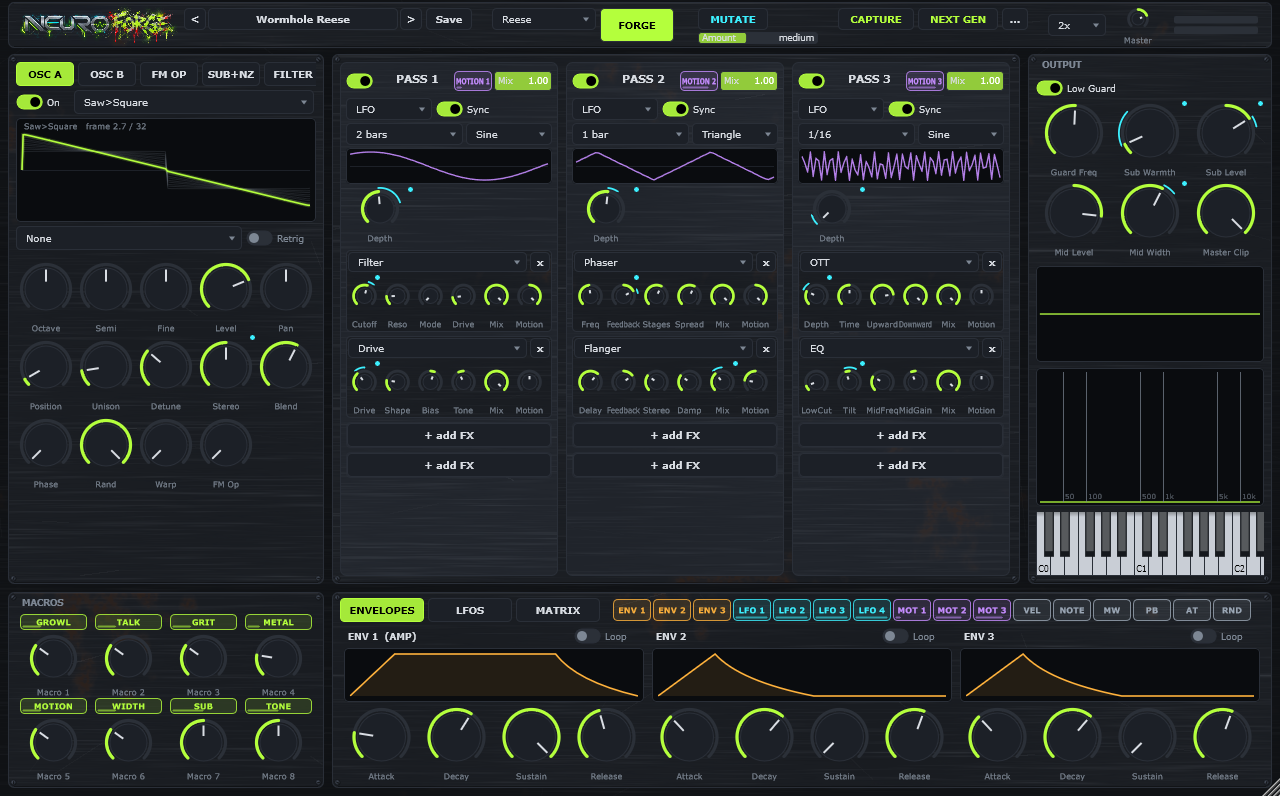
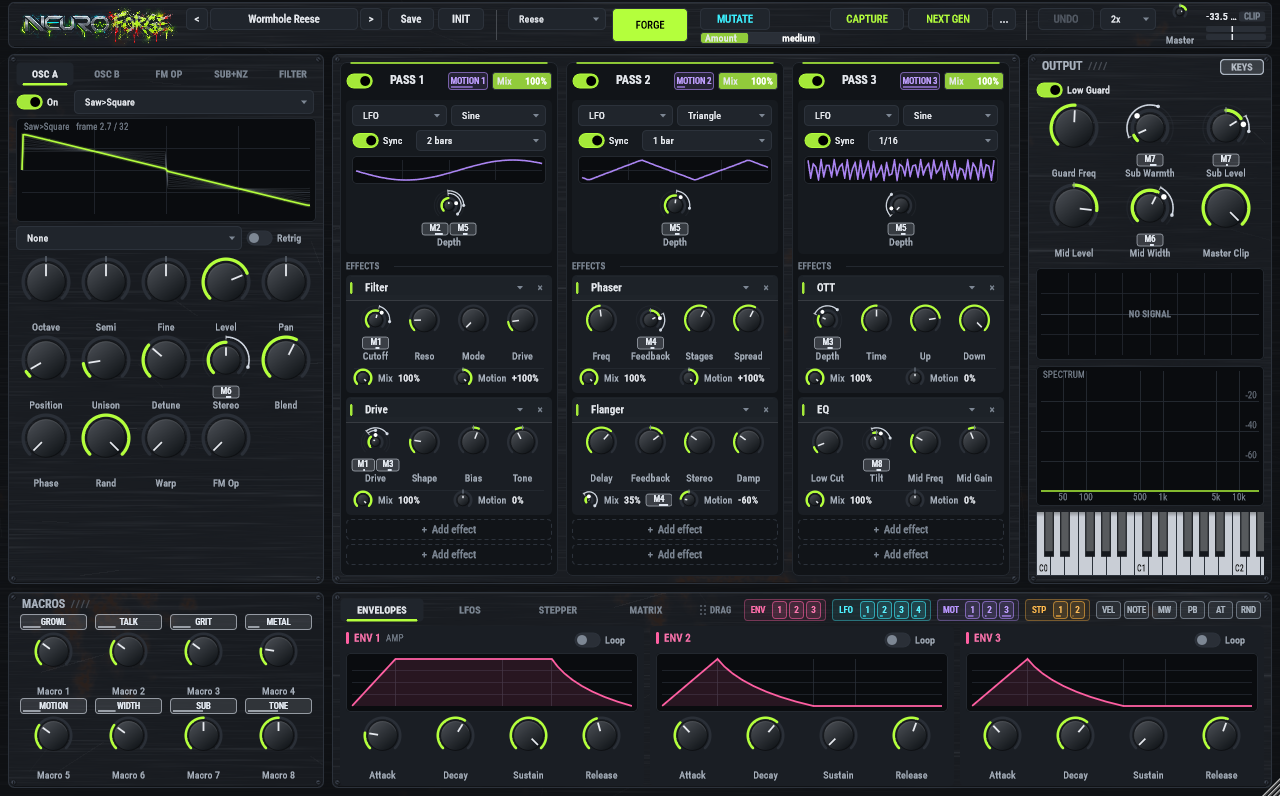
Docs: manual, README and screenshot for the new UI; ship Roboto Condensed license

diff --git a/tools/package.py b/tools/package.py
@@ -115,6 +115,7 @@ def main() -> None:
         info.external_attr = (stat.S_IFREG | 0o644) << 16
         z.writestr(info, install)
         z.write("LICENSE", "LICENSE.txt")
+        z.write("assets/fonts/LICENSE-Apache-2.0.txt", "third-party-licenses/RobotoCondensed-LICENSE-Apache-2.0.txt")
         z.write(f"{a.cje}/LICENSE.md", "third-party-licenses/clap-juce-extensions-LICENSE.txt")
         z.write(f"{a.cje}/clap-libs/clap/LICENSE", "third-party-licenses/clap-LICENSE.txt")
         z.write(f"{a.cje}/clap-libs/clap-helpers/LICENSE", "third-party-licenses/clap-helpers-LICENSE.txt")

diff --git a/docs/MANUAL.md b/docs/MANUAL.md
@@ -30,22 +30,24 @@ The window has six areas, laid out in the order the sound travels: source on the
 
 | Area | Where | What it is for |
 | --- | --- | --- |
-| Top bar | Top | Presets, Save, INIT (fresh empty patch), archetype + FORGE, MUTATE, UNDO, CAPTURE, NEXT GEN, capture settings (**...**), quality (1x/2x/4x), Master gain and the output meter |
+| Top bar | Top | Three groups. Preset: preset menu, Save, INIT (fresh empty patch). Generation: archetype + FORGE, MUTATE, CAPTURE, NEXT GEN and capture settings (**...**). Utility: UNDO, quality (1x/2x/4x), Master gain and the output meter |
 | Source | Left | Tabs OSC A, OSC B, FM OP, SUB+NZ and FILTER: everything that makes the raw sound, per voice |
-| The Forge | Middle | Three passes, each with its own Motion and up to four FX slots |
-| Output | Right | Low Guard, Sub Warmth, Sub Level, Mid Level, Mid Width, Master Clip, plus an oscilloscope and spectrum |
+| The Forge | Middle | Three passes, each with its own Motion and a chain of up to four effect cards |
+| Output | Right | Low Guard, Sub Warmth, Sub Level, Mid Level, Mid Width, Master Clip, plus an oscilloscope, a spectrum (with dB scale) and the KEYS button that shows or hides the on-screen keyboard |
 | Macros | Bottom left | Eight big knobs: GROWL, TALK, GRIT, METAL, MOTION, WIDTH, SUB, TONE |
-| Modulation | Bottom | Tabs ENVELOPES, LFOS, STEPPER and MATRIX, plus the row of draggable source chips (ENV, LFO, MOT, VEL, NOTE, MW, PB, AT, RND, STP) |
+| Modulation | Bottom | Tabs ENVELOPES, LFOS, STEPPER and MATRIX, plus the **DRAG** strip of source chips: ENV 1–3, LFO 1–4, MOT 1–3, STP 1–2, then VEL, NOTE, MW, PB, AT and RND |
 
 Knobs work the same everywhere:
 
 - Drag up or down to change a value. Hold **Ctrl** for fine adjustment, or use the mouse wheel.
 - **Double-click** resets to the default.
 - Hover or drag to see the exact value.
-- Each modulation route draws a thin **ring** around the knob in its source colour (pink = envelope, cyan = LFO, purple = Motion, green = macro, amber = stepper). A solid ring means positive depth, a dashed ring negative depth, and the dot at its end shows how far it pushes. A white dot on the green arc shows the live, modulated value.
-- **Right-click** for: *Enter value…* (type an exact value, units optional), remove modulation, reset, and *Assign to Macro*.
+- The green arc is the knob's own value. Each modulation route draws a thin **ring** outside it in its source colour (pink = envelope, cyan = LFO, purple = Motion, white = macro, amber = stepper). A solid ring means positive depth, a dashed ring negative depth. A small marker shows where the knob is set and a white dot shows the live, modulated value.
+- **Right-click** for: *Enter value…* (type an exact value, units optional), remove modulation, *Edit all modulation…*, reset, and *Assign to Macro*.
 - **Keyboard:** click a knob, then use the arrow keys (Shift = fine), Delete to reset, Enter to type a value.
-- **Modulation badges:** every modulation route on a knob shows as a small coloured badge under it (E1 = Env 1, L2 = LFO 2, MO1 = Motion 1, M3 = Macro 3, S1 = Step 1, …) and as a coloured arc around the knob showing how far it moves. **Drag a badge up or down** to set the amount, **double-click** it to remove the route, **right-click** it to invert. A white dot shows the live, modulated position.
+- **Modulation badges:** modulation routes show as small coloured badges under the knob (E1 = Env 1, L2 = LFO 2, MO1 = Motion 1, M3 = Macro 3, S1 = Step 1, …). **Drag a badge up or down** to set the amount, **double-click** it to remove the route, **right-click** it to invert, set +50% or remove it.
+- **More routes than badges:** when a knob has more routes than fit, the last badge reads **+n**. Click it (or right-click the knob → *Edit all modulation…*) to open a popover listing every route on that knob, each with a depth bar (drag left/right, double-click for 0), **±** to invert and **×** to remove.
+- **Finding routes:** hover a source chip and every knob it modulates lights up. While you drag a chip, the knobs you can drop it on show a dashed outline, and a knob flashes when a route is made.
 
 You can resize the window from the bottom-right corner; the whole interface scales.
 
@@ -73,7 +75,7 @@ FORGE builds a complete patch for the chosen archetype. That covers the source, 
 
 Mutate never touches the master section, Low Guard, the sub, oscillator levels, the amp envelope, macros or modulation routes. It re-matches loudness afterwards.
 
-**UNDO** (next to MUTATE) steps back through your last whole-patch changes: FORGE, MUTATE, NEXT GEN, loading a preset and Init. It remembers up to 32 steps. Knob tweaks are not part of this history; use your DAW's undo for those.
+**UNDO** (in the utility group of the top bar) steps back through your last whole-patch changes: FORGE, MUTATE, NEXT GEN, loading a preset and Init. It remembers up to 32 steps. Knob tweaks are not part of this history; use your DAW's undo for those.
 
 ## The eight macros
 
@@ -150,7 +152,7 @@ The Forge is where a neuro bass gets its character. It is three passes in series
 
 ### Passes
 
-- The toggle switches a pass on or off. **Mix** blends the pass with its input, so a pass can run as parallel processing.
+- The toggle in the pass header switches a pass on or off; an active pass has a lit top edge and a bypassed pass is dimmed. **Mix** blends the pass with its input, so a pass can run as parallel processing.
 - A typical split:
   - **Pass 1** shapes and talks (filter or formant, then drive).
   - **Pass 2** adds character (comb, phaser, fold, crush).
@@ -168,7 +170,7 @@ Each pass has one Motion modulator that moves the **first knob (P1)** of every s
 
 ### FX slots
 
-Click **+ add FX** to pick an effect; **x** removes it. Every slot has its four parameters, **Mix**, and **Motion**. Motion runs from −100% to +100% and sets how strongly, and in which direction, the pass's Motion moves P1.
+Each pass shows its effects as a chain of cards under **EFFECTS**, in processing order (scroll the chain if it doesn't fit). Click an empty **+ Add effect** slot to pick an effect, click a card's title to swap it for another, and **×** removes it. Every card has its four parameters, plus **Mix** and **Motion** in its footer. Motion runs from −100% to +100% and sets how strongly, and in which direction, the pass's Motion moves P1.
 
 | FX | P1 (Motion target) | P2 | P3 | P4 | Good for |
 | --- | --- | --- | --- | --- | --- |
@@ -183,8 +185,8 @@ Click **+ add FX** to pick an effect; **x** removes it. Every slot has its four 
 | FreqShift | Shift (±1000 Hz) | Feedback | Stereo | – | Inharmonic sheen; small shifts give slow beating |
 | RingMod | Freq | KeyTrack | Shape (sine to square) | – | Bell-like metal |
 | Disperse | Freq | Amount (up to 64 allpass stages) | Pinch | Spread | Laser "zap" smear (Disperser style) |
-| OTT | Depth | Time | Upward | Downward | Three-band upward and downward compression: brings up grit and detail |
-| EQ | Low cut | Tilt (±12 dB) | Mid freq | Mid gain | Clean-up and tone |
+| OTT | Depth | Time | Up (upward) | Down (downward) | Three-band upward and downward compression: brings up grit and detail |
+| EQ | Low Cut | Tilt (±12 dB) | Mid Freq | Mid Gain | Clean-up and tone |
 | Width | Width (0–200%) | Haas (0–20 ms) | Mono below | – | Stereo shaping |
 
 **Order matters.**
@@ -198,11 +200,11 @@ Click **+ add FX** to pick an effect; **x** removes it. Every slot has its four 
 Anything with a knob can move. The quickest way is to **drag a source chip onto a knob**. This creates a route at 50% in the first free matrix row.
 
 - **Source chips** sit in three places:
-  - the row above the modulation tabs (ENV 1–3, LFO 1–4, MOT 1–3, VEL, NOTE, MW, PB, AT, RND)
+  - the **DRAG** strip next to the modulation tabs (ENV 1–3, LFO 1–4, MOT 1–3, STP 1–2, VEL, NOTE, MW, PB, AT, RND)
   - above each macro knob
   - as the MOTION chip in each pass header
-- **Change the amount**: Alt-drag the knob, or edit the row in the MATRIX tab.
-- **Remove**: right-click the knob and choose *Remove modulation from …*, or clear the row in MATRIX.
+- **Change the amount**: drag the route's badge under the knob, Alt-drag the knob, click **+n** for the full list, or edit the row in the MATRIX tab.
+- **Remove**: double-click the badge, right-click the knob and choose *Remove modulation from …*, or clear the row in MATRIX.
 
 | Source | Range | Notes |
 | --- | --- | --- |
@@ -222,12 +224,13 @@ The **STEPPER** tab holds two curve sequencers, STEP 1 and STEP 2, in the style 
 
 - **Pick a curve:** drag one of the 20 shapes from the palette (ramps, exp/log, hump, pulse, spike, bounce, trill, stairs, wobble, …) onto a step. Or select a step, then click a curve. The mouse wheel on a step cycles its curve; right-click picks one from a list.
 - **Set intensity:** drag up or down inside a step. Drag sideways to paint several steps at once. Double-click a step for full intensity.
+- The **Timing** group holds Sync, Retrig and the step length or Rate; the **Pattern** group holds Steps and Smooth. Switch between the two sequencers with the **STEP 1 / STEP 2** pills.
 - **Steps** sets the pattern length, the **step length** (Sync on, e.g. 1/16) or **Rate** (Sync off, Hz) sets the speed, **Smooth** rounds off jumps between steps, and **Retrig** restarts the pattern on each note.
 - Drag the **STP 1 / STP 2** chip onto any knob to use it. A stepper on a filter cutoff, formant vowel or FM amount gives detailed, rhythmic talking that an LFO can't.
 
 **Looping envelopes** are the secret to self-moving FM basses. A looped Env 3 with Attack 40 ms and Decay 130 ms repeats about every 1/8 note at 174 BPM. Route it to an FM Op amount, a wavetable Position or a filter cutoff.
 
-The **MATRIX** tab shows all 24 routes: source, destination (grouped by section), and a bipolar amount. Modulation adds to the knob's own value, so set the knob where the movement should start.
+The **MATRIX** tab shows all 24 routes: a colour-coded source, a destination named by section and slot (for example *Filter Cutoff (Slot 1)*), and a bipolar amount. Modulation adds to the knob's own value, so set the knob where the movement should start.
 
 ## Capture and Next Gen
 
@@ -258,6 +261,8 @@ The status next to the buttons shows *Rendering…* and then which slot was fill
 
 Neuroforge keeps the sub clean and mono automatically, so you can distort the mids as hard as you like.
 
+The output meter in the top bar shows the level in dB with a peak hold of about 1.5 seconds. The **CLIP** light stays on once the output reaches 0 dBFS; click it to reset.
+
 | Control | What it does | Starting point |
 | --- | --- | --- |
 | Low Guard | Splits the oscillators at Guard Freq. Everything below goes to the mono sub bus; everything above goes through the Forge, and is high-passed again afterwards so distortion cannot muddy the low end | On |
@@ -283,7 +288,7 @@ Three recipes, each about ten minutes. Play a held F1 while you build, then a ba
 
 ### 1. Self-moving FM growl (Noisia-style)
 
-1. Preset menu → **Init**. On SUB+NZ set the sub **Octave** to 0.
+1. Click **INIT** (top bar, next to Save). On SUB+NZ set the sub **Octave** to 0.
 2. OSC A: **Table** Basic Shapes, **Position** 0% (a sine).
 3. FM OP: **On**, **Ratio** 1, **Fine** +5 ct, **Feedback** 20%. Back on OSC A, set **FM Op** to 25%.
 4. ENVELOPES → Env 3: Attack 40 ms, Decay 130 ms, Sustain 0, **Loop** on.

diff --git a/README.md b/README.md
@@ -27,11 +27,12 @@ It does not dumb the process down. It lowers the entry point and raises the ceil
 
 - **FORGE.** One click generates a mix-ready patch for one of 9 archetypes: Reese, FM Growl, Talker, Metallic, Tearer, Hoover, Stab, Liquid and Donk. Each click is a new variation at a consistent loudness.
 - **8 macros with fixed meanings:** GROWL, TALK, GRIT, METAL, MOTION, WIDTH, SUB and TONE. They do the same job on every generated patch.
-- **MUTATE** varies the current sound (subtle, medium or wild) while keeping it musical, and **UNDO** takes you back.
+- **MUTATE** varies the current sound (subtle, medium or wild) while keeping it musical, and **UNDO** takes you back. **INIT** starts from a fresh, empty patch.
 - **The Forge:** 3 passes × 4 FX slots, choosing from 14 effect types.
   - Distortion and filtering: Drive and Fold (both antialiased with ADAA), Crush, Filter, Formant and Comb.
   - Modulation effects: Phaser, Flanger, Frequency Shifter, Ring Mod and Disperser-style dispersion.
   - Dynamics and finishing: 3-band OTT, EQ and Width.
+  - Each pass shows its effects as a chain of cards.
   - Each pass has its own **Motion**, a tempo-synced LFO or a 16-step sequencer. Each pass re-applies movement the way a resample pass would.
 - **In-plugin resampling.**
   - **CAPTURE** renders your patch into a wavetable, sliced in sync with the note's pitch.
@@ -45,8 +46,11 @@ It does not dumb the process down. It lowers the entry point and raises the ceil
 - **Modulation:**
   - Looping envelopes, for Noisia-style self-moving FM.
   - 4 LFOs, 2 **curve steppers** (16 steps, a drawable curve shape and intensity per step), 24 matrix slots.
-  - Drag-to-modulate on every knob, with coloured **modulation badges** you drag to set the amount, and range arcs on the knob.
+  - Drag a source chip onto any knob to modulate it. Knobs you can drop on are highlighted while you drag, and hovering a chip shows everything it modulates.
+  - Sources are colour-coded: pink envelopes, cyan LFOs, purple Motion, white macros, amber steppers.
+  - Each route shows as a **modulation badge** under the knob (drag it to set the depth) and a ring on the knob. When a knob has more routes than badges, **+n** opens a popover that lists every route, with a depth bar, invert and remove.
 - 2x/4x internal oversampling with linear-phase decimation.
+- **Workflow:** type exact values (right-click → *Enter value…*, or press Enter on a focused knob), full keyboard control of knobs, an output meter with peak hold and a latching clip light, and a scalable interface (drag the bottom-right corner).
 
 ## Install (beta)
 
@@ -146,4 +150,4 @@ The output lands in `build/Neuroforge_artefacts/Release/`.
 
 ## License
 
-Neuroforge is released under the **GNU AGPLv3**; see [LICENSE](LICENSE). It is built with [JUCE](https://juce.com), which is used under its AGPLv3 option, and [clap-juce-extensions](https://github.com/free-audio/clap-juce-extensions) (MIT) for the CLAP format.
+Neuroforge is released under the **GNU AGPLv3**; see [LICENSE](LICENSE). It is built with [JUCE](https://juce.com), which is used under its AGPLv3 option, and [clap-juce-extensions](https://github.com/free-audio/clap-juce-extensions) (MIT) for the CLAP format. The UI uses the Roboto Condensed font (Apache License 2.0, see [`assets/fonts/`](assets/fonts/)).
